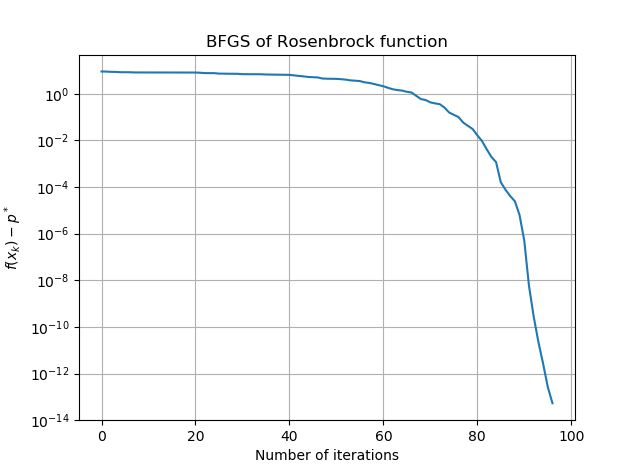
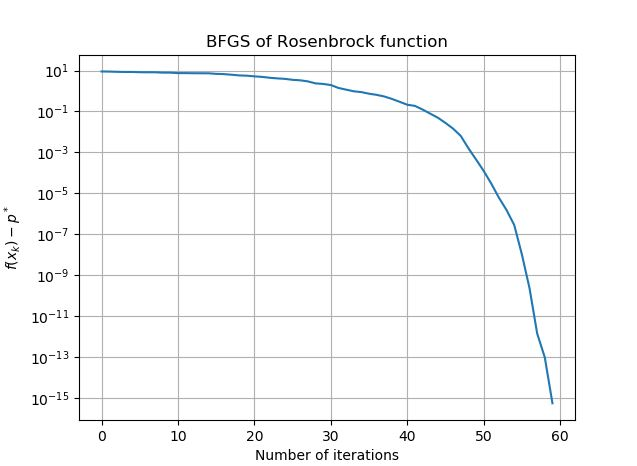
added more prints to code, updates tex of task 2. Task 2 done, matches reference perfectly

diff --git a/hw3_311137095_321082026.tex b/hw3_311137095_321082026.tex
@@ -17,14 +17,15 @@
  %end of title section
 \section*{Part 1 - BFGS}
 \subsection*{Task 2}
-We chose $N=10$. Our starting point was $x_0=(0,0,..0)$. We know that a local minimum of the function exists at $x^*=(1,1,...)$ and that $p^*=0$ (our function is non-negative so this must be a global minimum as well). We stopped after 97 iterations at\\\\
-$x_{final}$=[ 5.51033772e-07,  6.67959021e-07, -4.45033926e-06, 
-2.72106755e-06, 1.86952265e-06, -7.31025632e-09, -1.21113396e-06, -5.86666139e-06, 4.51107833e-06, -5.76553427e-07]\\\\
-The error function and gradient at this point are $$f(x_{final})-p^*=5.359357003868173e-14$$
-$\nabla f(x_{final})=$[ 5.51033772e-07  6.67959021e-07 -4.45033926e-06  2.72106755e-06\\
-  1.86952265e-06 -7.31025632e-09 -1.21113396e-06 -5.86666139e-06
-  4.51107833e-06\\ -5.76553427e-07]
-$$||\nabla f(x_{final})|| = 9.381977770909129e-06$$
+We chose $N=10$. Our starting point was $x_0=(0,0,..0)$. We know that a local minimum of the function exists at $x^*=(1,1,...)$ and that $p^*=0$ (our function is non-negative so this must be a global minimum as well). We stopped after 60 iterations (we started from iteration number 0) at
+\begin{center}
+$x_{final}$ =[ 1.,  1., 1., 1., 1., 1., 1., 1., 1., 1.]
+\end{center}
+The error function and gradient at this point is $$f(x_{final})-p^*\approx 0$$
+$\nabla f(x_{final})=$[-1.03489194e-07 4.64227620e-07 -2.33440170e-07 -3.37145026e-07 \\
+4.63302603e-07 1.27499791e-07 -6.70338432e-07 5.13097599e-07 -3.48798911e-07 \\
+1.10922516e-07]
+$$||\nabla f(x_{final})|| = 1.2132069569224647e-06$$
 We can see in the graph below that the error function $f(x_k)-p^*$, where $k$ is the number of iterations, is monotonously decreasing. This means we always advance in the direction of the minimum.
 \begin{figure}[ht!]
 	\hfill\includegraphics[width=\linewidth]{rosenbrock_graph.jpg}\hspace*{\fill}

diff --git a/BFGS.py b/BFGS.py
@@ -129,13 +129,14 @@ def main():
         assert val == 0
 
     x0 = np.zeros(10).reshape(10, 1)
-    x_opt, grad_at_x_opt = BFGS(rosenbrock, x0)
+    x_opt, x_history = BFGS(rosenbrock, x0)
+    print("solved after", len(x_history), "iterations")
     opt_val, grad_opt = rosenbrock(np.asarray(x_opt))
     grad_opt_size = np.linalg.norm(grad_opt)
     print("\n\nfinal x = ", x_opt, "\n\nfinal gradient=", grad_opt, "\n of size=", grad_opt_size)
 
     plt.figure()
-    plt.plot(grad_at_x_opt)
+    plt.plot(x_history)
     plt.semilogy()
     plt.xlabel('Number of iterations')
     plt.ylabel('$f(x_k)-p^*$')
